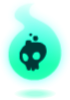
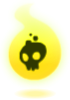
Soul color changes, powerup generation.

diff --git a/AngryMob/src/Layers/Game/GameObjectsLayer.js b/AngryMob/src/Layers/Game/GameObjectsLayer.js
@@ -10,6 +10,7 @@ var GameObjectsLayer = cc.Layer.extend({
   clickIndicatorScaleAction: null,
   availableSegmentIndices: [],
   unavailableSegmentIndices: [],
+  availablePowerups: [],
 
   init: function(gameScene) {
     this.winSize = Game.get('winSize');
@@ -90,6 +91,16 @@ var GameObjectsLayer = cc.Layer.extend({
    },
 
   instantiatePowerups: function() {
+
+    // Creates an array of only the powersup the player can use.
+    var powerupMemory = Memory.get('powerups');
+
+    for (var powerupMemIndex = 0; powerupMemIndex < powerupMemory; powerupMemIndex++) {
+      if (powerupMemory[powerupMemIndex] === G.OWNED) {
+        this.availablePowerups.push(powerupMemIndex);
+      }
+    }
+
     this.gameScene.powerups = [];
 
     for (var typeIndex = 0; typeIndex < G.POWERUP_COUNT ; typeIndex++ ) {
@@ -100,7 +111,7 @@ var GameObjectsLayer = cc.Layer.extend({
       }
     }
 
-    this.gameScene.powerups[1][0].activate(200, 0);
+    this.gameScene.powerups[0][0].activate(200, 0);
   },
 
   /**
@@ -338,6 +349,12 @@ var GameObjectsLayer = cc.Layer.extend({
       }
 
       return index;
+  },
+
+  getPowerupType: function() {
+    var index = Math.randomBetween(0, this.availablePowerups.length);
+
+    return this.availablePowerups[index];
   },
 
   update: function() {

diff --git a/AngryMob/src/UI/SpeedBar.js b/AngryMob/src/UI/SpeedBar.js
@@ -30,6 +30,7 @@ var SpeedBar = cc.Sprite.extend({
 
     this.generateDynamicBar();
     this.generateParticleSystem();
+    this.generateSeparators();
 
     this.scheduleUpdate();
   },
@@ -69,6 +70,16 @@ var SpeedBar = cc.Sprite.extend({
     this.particleSystemPulseAction.retain();
 
     this.addChild(this.particleSystem);
+  },
+
+  generateSeparators: function() {
+    var separatorLower = new cc.Sprite('#speed_separator.png');
+    separatorLower.setPosition(0, -50);
+    this.addChild(separatorLower);
+
+    var separatorUpper = new cc.Sprite('#speed_separator.png');
+    separatorUpper.setPosition(0, 50);
+    this.addChild(separatorUpper);
   },
 
   /**

diff --git a/AngryMob/src/helpers/Memory.js b/AngryMob/src/helpers/Memory.js
@@ -18,6 +18,11 @@ var Memory = (function() {
       G.NOT_OWNED,
       G.NOT_OWNED,
       G.NOT_OWNED
+    ],
+    powerups: [
+      G.OWNED,
+      G.OWNED,
+      G.NOT_OWNED
     ]
   };
 
